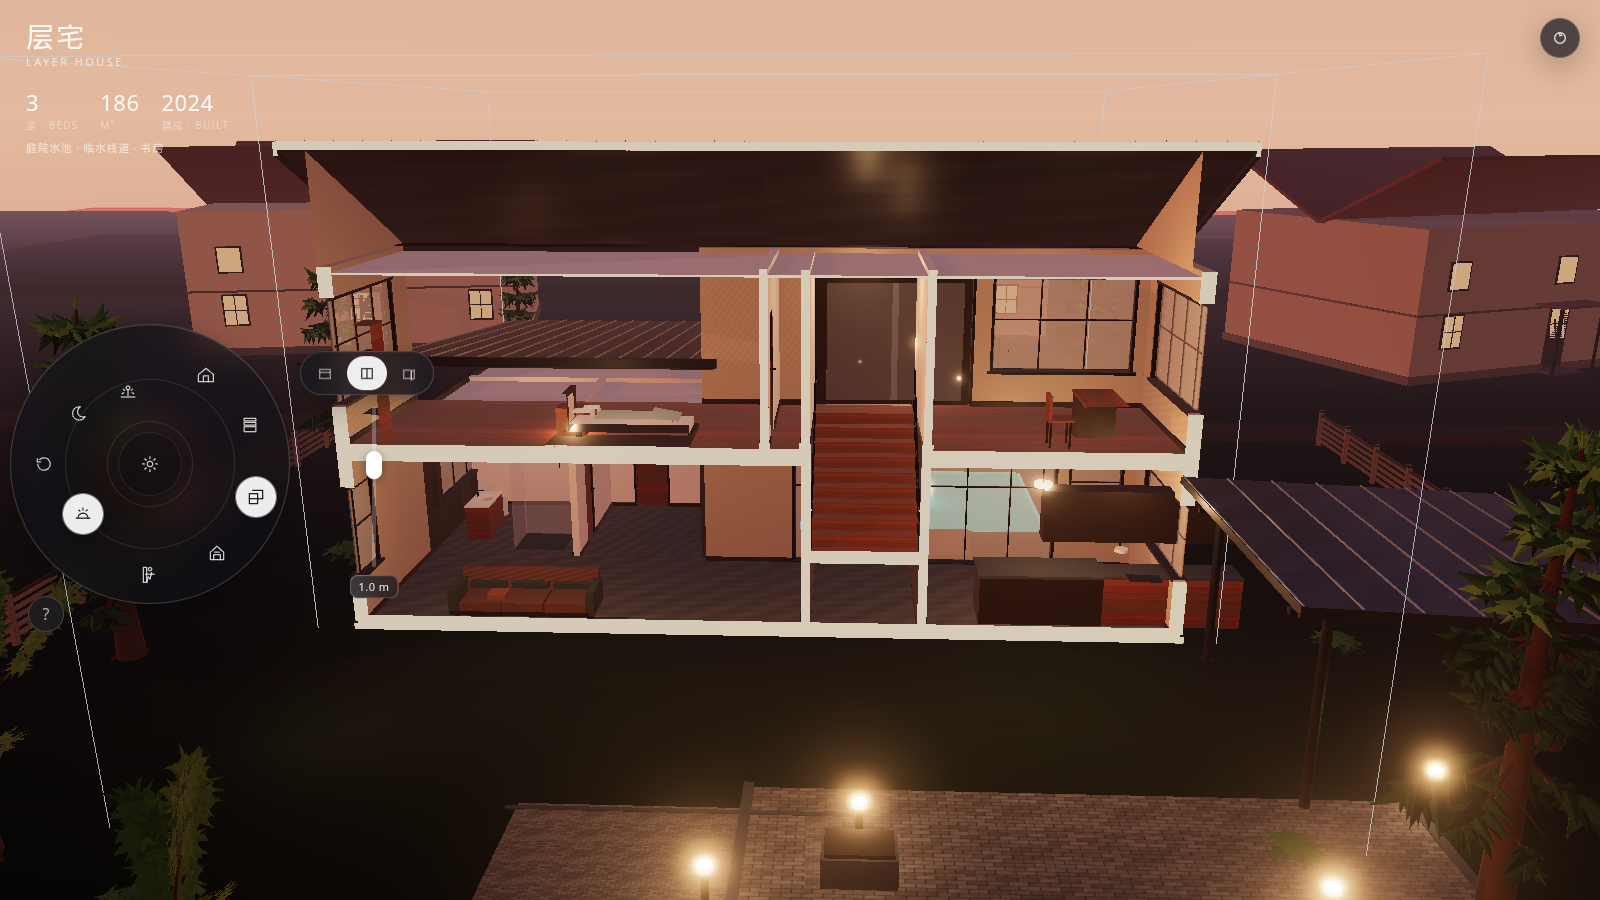
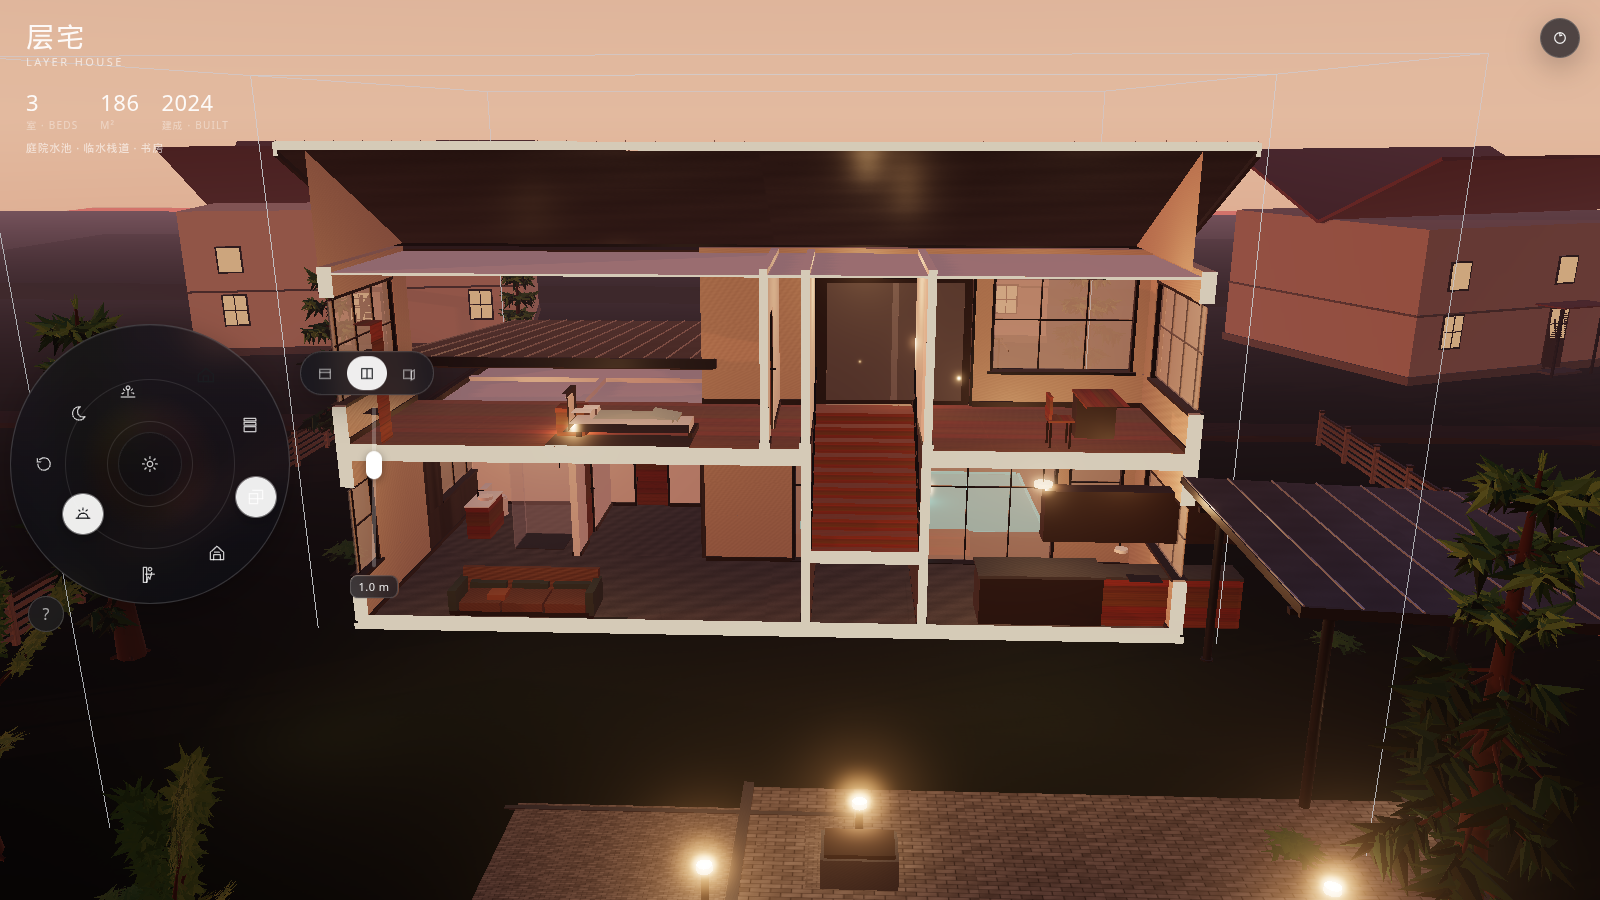
Move the two carport pines clear of the roof.
The pine at 11.2, 4.2 grew through the slab. The pine at 8.6, 7.8 stood in front of the roof in the day view. Both stay the same size; the other trees are unmoved.

Changed region(s): [[0.8438, 0.4667, 1.0, 1.0], [0.6875, 0.6533, 0.7188, 0.6844]]

diff --git a/src/scene/site/index.ts b/src/scene/site/index.ts
@@ -271,8 +271,10 @@ export function buildLandscape(groups: HouseGroups, mats: Materials, rec: HouseR
   planter(land, mats, rec, 1.4, 7.6, 0.9, 0.6);
 
   // Trees — pines + maples, no palms
-  pine(land, mats, 8.6, 7.8, 1.15, 5.4);
-  pine(land, mats, 11.2, 4.2, 0.95, 4.6);
+  // Shifted off the carport so the trunk is not in front of the roof.
+  pine(land, mats, 7.8, 8.6, 1.15, 5.4);
+  // East of the roof. 11.2 sat under it and the trunk grew through the slab.
+  pine(land, mats, 12.6, 4.2, 0.95, 4.6);
   pine(land, mats, -10.6, 2.2, 1.2, 5.8);
   pine(land, mats, -11.4, -8.6, 1.05, 5.0);
   pine(land, mats, 7.8, -12.6, 1.1, 5.2);
